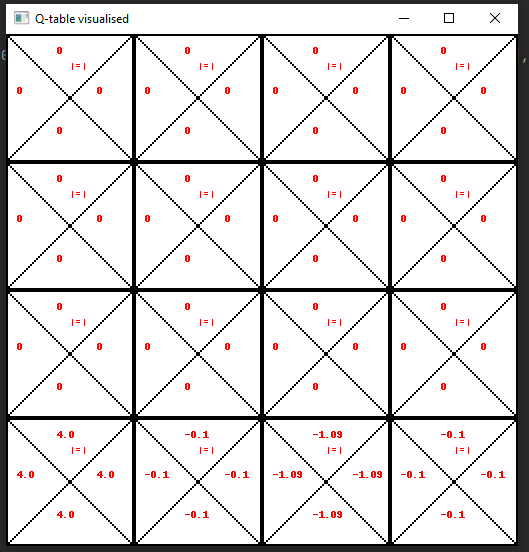
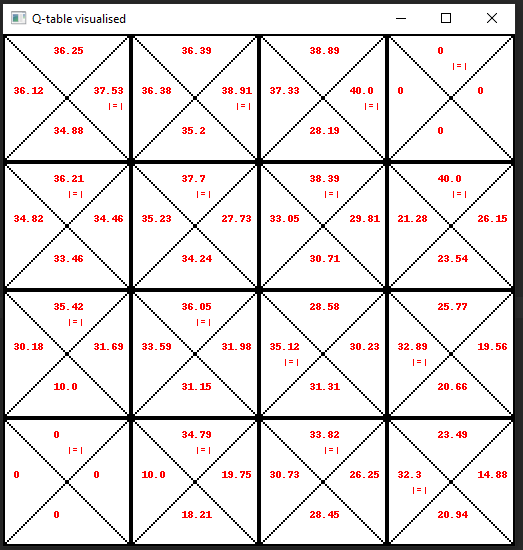
Fixed SARSA control :)

diff --git a/modelfree_prediction/code_for_implementation/sarsa_on_policy_control.py b/modelfree_prediction/code_for_implementation/sarsa_on_policy_control.py
@@ -3,7 +3,7 @@ import copy
 import numpy as np
 
 
-def sarsa_tem_dif_ler(environment, iterations=1000, discount_rate=0.9, alpha=0.1, exploring_starts=False, epsilon=0.7):
+def sarsa_tem_dif_ler(environment, iterations=1000, discount_rate=0.9, alpha=0.1, exploring_starts=False, epsilon=0.9):
     """
     Policy control using SARSA temporal difference.
 
@@ -31,6 +31,7 @@ def sarsa_tem_dif_ler(environment, iterations=1000, discount_rate=0.9, alpha=0.1
     """
     q_table = [[[0, 0, 0, 0], [0, 0, 0, 0], [0, 0, 0, 0], [0, 0, 0, 0]] for x in np.zeros_like(environment.maze)]
     environment.agent.policy.q_table = q_table
+    environment.agent.policy.epsilon = epsilon
 
     translate_action_to_coord = {0: (-1, 0),
                                  1: (0, 1),
@@ -49,7 +50,7 @@ def sarsa_tem_dif_ler(environment, iterations=1000, discount_rate=0.9, alpha=0.1
 
         while not environment.done:
 
-            last_state = state
+            # last_state = state
             # Take action A, observe R, S'
             state_prime, reward, _, _ = environment.step(action)
 
@@ -57,33 +58,13 @@ def sarsa_tem_dif_ler(environment, iterations=1000, discount_rate=0.9, alpha=0.1
             # state_prime = observation
             action_prime = environment.agent.get_action_from_policy(state_prime)
 
-            # Get Q_value for prime state
-            action_coord_delta_y, action_coord_delta_x = translate_action_to_coord[action]
-            next_y = state_prime['agent_location'][0] + action_coord_delta_y
-            next_x = state_prime['agent_location'][1] + action_coord_delta_x
-            print(f"{state=}\t{action_prime=}\t")
-
-            # Check if next action is possible in the maze
-            if 0 <= next_y <= environment.maze.shape[1] - 1 and 0 <= next_x <= environment.maze.shape[0] - 1:
-                state_prime['agent_location'] = (next_y, next_x)
-
-            # q_value_from_prime_state = environment.agent.policy.q_table[(next_y, next_x)]
-            q_value_from_prime_state = environment.agent.policy.q_table[state_prime['agent_location'][0]][state_prime['agent_location'][1]]
-            # print(f"{q_value_from_prime_state=}")
-
-            q_value_from_state = environment.agent.policy.q_table[last_state['agent_location'][0]][last_state['agent_location'][1]]
-            # print(f"{q_value_from_state=}")
-
             # Q(S,A) ← Q(S,A) + α (R + γQ(S',A') - Q(S,A))
-            environment.agent.policy.q_table[last_state['agent_location'][0]][last_state['agent_location'][1]] = q_value_from_state + alpha * (reward + discount_rate * q_value_from_prime_state - q_value_from_state)
+            environment.agent.policy.q_table[state['agent_location'][0]][state['agent_location'][1]][action] += alpha * (reward + discount_rate * environment.agent.policy.q_table[state_prime['agent_location'][0]][state_prime['agent_location'][1]][action_prime] - environment.agent.policy.q_table[state['agent_location'][0]][state['agent_location'][1]][action])
 
             total_reward += reward
 
             # S ← S'; A ← A'
             state = state_prime
             action = action_prime
-            # print(f"{state=}")
-        # print(f"{total_reward=}")
-        #     print("loop")
-        print(environment.agent.policy.q_table)
+
     return environment.agent.policy.visualise_q_table()

diff --git a/modelfree_prediction/code_for_implementation/simulator.py b/modelfree_prediction/code_for_implementation/simulator.py
@@ -157,10 +157,11 @@ if __name__ == "__main__":
             # Load optimal value matrix
             a3.load_value_matrix('policy_saves/best_paths_custom.csv')
             # print(a3.policy.value_matrix)
-            iterations = 10
-            discount_rate = 1
+            iterations = 10000
+            # discount_rate = 1
+            discount_rate = 0.9
             alpha = 0.1
-            epsilon = 0.7
+            epsilon = 0.9
             exploring_starts = True
             print(
                 f"Sarsa control Temporal Difference Learning\n{iterations=}\t{discount_rate=}\t{alpha=}\t{epsilon=}\t{exploring_starts=}\nOutcome\n")

diff --git a/modelfree_prediction/README_modelfree_prediction.md b/modelfree_prediction/README_modelfree_prediction.md
@@ -28,9 +28,6 @@ python modelfree_prediction/code_for_implementation/simulator.py 2
 
 ## Outcome On policy SARSA TD control
 
-### Disclaimer, there is a bug that I can't solve in time :C
-### The code should work, but I can't find out why not right now
-
 Use this from root folder to get the same results
 ```bash
 python modelfree_prediction/code_for_implementation/simulator.py 3
@@ -38,6 +35,8 @@ python modelfree_prediction/code_for_implementation/simulator.py 3
 
 ![Alt Text](https://github.com/RichardDev01/Adaptive-Systems-2021/blob/main/assets/outcome_qtable_sarsa_discount_1_text.PNG?raw=true)
 ![Alt Text](https://github.com/RichardDev01/Adaptive-Systems-2021/blob/main/assets/outcome_qtable_sarsa_discount_1.PNG?raw=true)
+![Alt Text](https://github.com/RichardDev01/Adaptive-Systems-2021/blob/main/assets/outcome_qtable_sarsa_discount_09_text.PNG?raw=true)
+![Alt Text](https://github.com/RichardDev01/Adaptive-Systems-2021/blob/main/assets/outcome_qtable_sarsa_discount_09.PNG?raw=true)
 
 ## Outcome Of Q leanring
 Use this from root folder to get the same results
